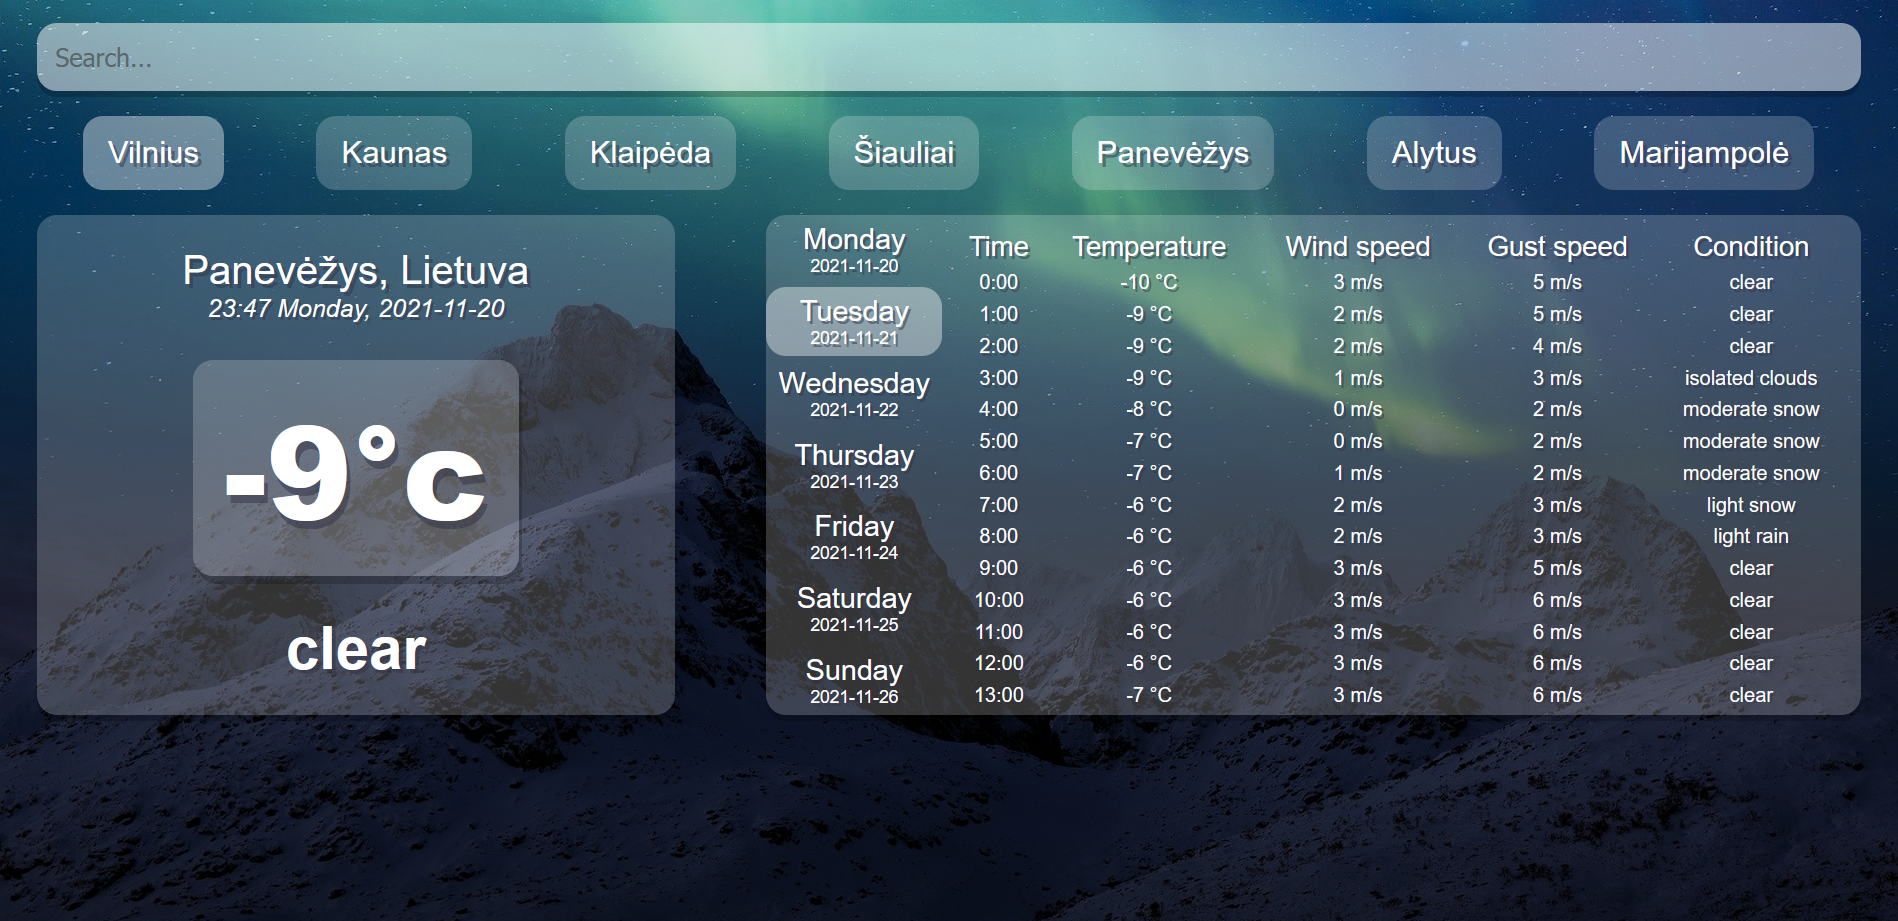
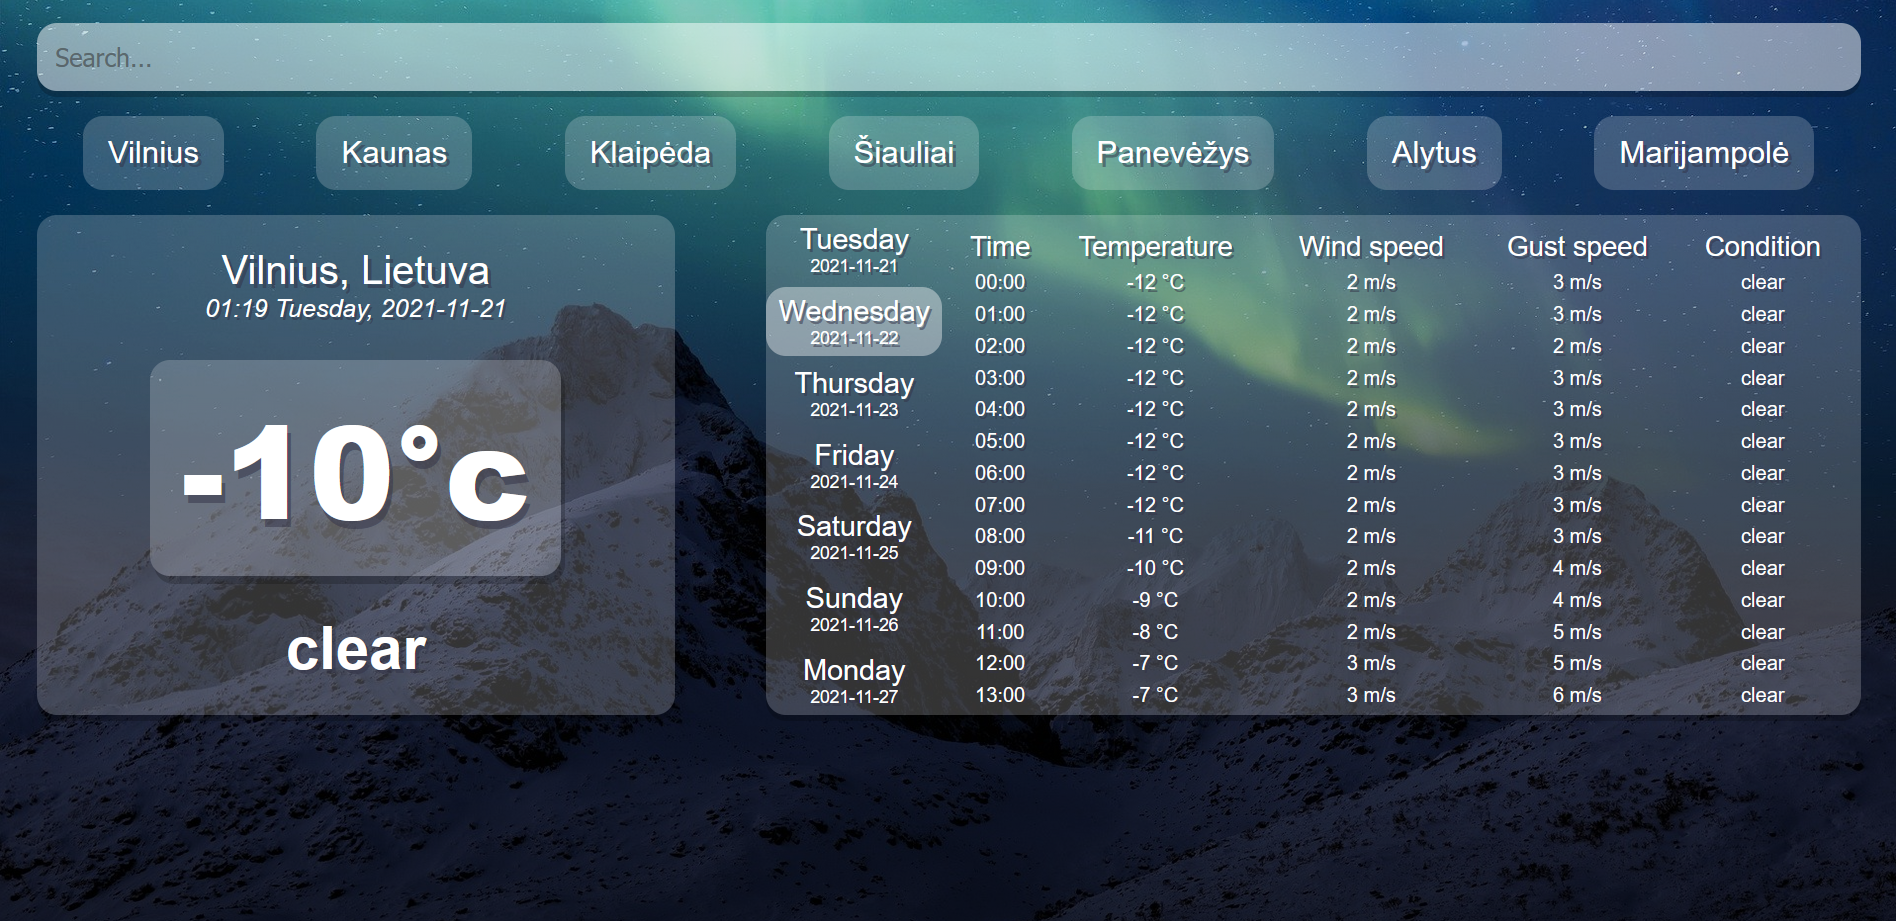
fixed time formating

diff --git a/src/utils.js b/src/utils.js
@@ -1,13 +1,12 @@
 export const dateBuilder = (date, isFull) => {
-    //let months = ["January", "February", "March", "April", "May", "June", "July", "August", "September", "October", "November", "December"];
     let days = ["Sunday", "Monday", "Tuesday", "Wednesday", "Thursday", "Friday", "Saturday"];
 
     let dayName = days[date.getDay()];
     let day = date.getDate();
     let month = date.getMonth();
     let year = date.getFullYear();
-    let hours = date.getHours();
-    let minutes = date.getMinutes();
+    let hours = ("0" + date.getHours()).slice(-2);
+    let minutes = ("0" + date.getMinutes()).slice(-2);
 
     return (isFull ? `${hours}:${minutes} ${dayName}, ${year}-${month}-${day}` : `${year}-${month}-${day}`);
   }

diff --git a/src/Forecast.js b/src/Forecast.js
@@ -81,7 +81,7 @@ function Forecast(props) {
               <tbody>
                 {days[days.findIndex((e) => e.day == openedDay)].forecast.map((value) => (
                     <tr className="hour-box" key={value.hour}>
-                      <td>{value.hour}:00</td>
+                      <td>{("0" + value.hour).slice(-2)}:00</td>
                       <td>{value.temp} °C</td>
                       <td>{value.windSpeed} m/s</td>
                       <td>{value.windGust} m/s</td>
